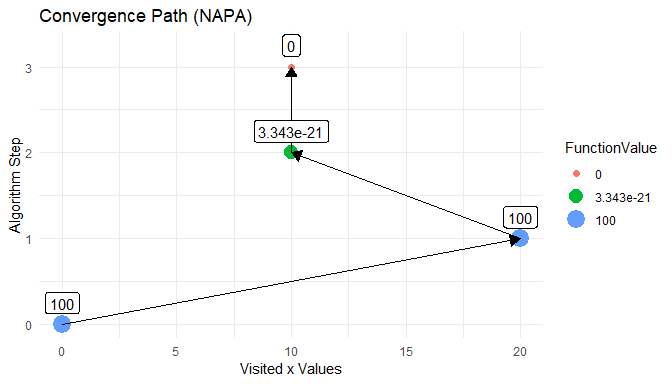
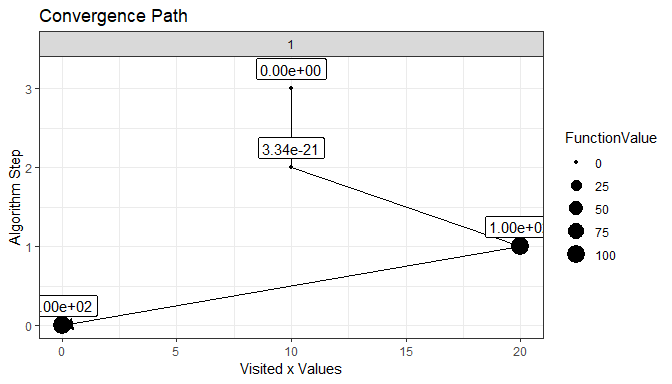
- minor readme update

diff --git a/README.html b/README.html
@@ -249,43 +249,15 @@ optim_DFP_NAPA(starts=0, func=quadratic_NAPA, center=10)</code></pre>
 op &lt;- optim_DFP_NAPA(starts=0, func=quadratic_NAPA, center=10, keepValues = TRUE)
 
 # convergence path plot:
-xv &lt;- as.numeric(op$x)
-fv &lt;- as.numeric(op$f)
-
-dat &lt;- data.frame(xv=rev(xv), FunctionValue=factor(signif(rev(fv),4)), steps=0:op$steps)
-
-s &lt;- seq(length(xv)-1)
-dat_arrows &lt;- data.frame(x0 = rev(xv)[s+1], y0 = dat$steps[s+1], x1 = rev(xv)[s], y1 = dat$steps[s])
-
-ggplot(data=dat) + 
-  geom_point(aes(x=xv, y=steps, colour=FunctionValue, size=FunctionValue)) +
-  geom_segment(data=dat_arrows, aes(x=x1, y=y1, xend=x0, yend=y0), 
-               arrow = arrow(length=unit(0.30,&quot;cm&quot;), ends=&quot;last&quot;, type = &quot;closed&quot;)) +
-  geom_label(aes(label=FunctionValue, x=xv, y=steps+0.25)) +
-    xlab(&quot;Visited x Values&quot;) + ylab(&quot;Algorithm Step&quot;) +
-    ggtitle(&quot;Convergence Path (NAPA)&quot;) + theme_minimal()</code></pre>
[1 lines of base64/hex data omitted]
+plotConvergence(op) + ggtitle(&quot;Convergence Path&quot;)</code></pre>
[1 lines of base64/hex data omitted]
 <p>And the same for the APA version:</p>
 <pre class="r"><code># just set keepValues to TRUE to keep every visited value
 op &lt;- optim_DFP_APA(starts=0, func=quadratic, center=10, keepValues = TRUE)
 
 # convergence path plot:
-xv &lt;- sapply(X = op$x, FUN = format, digits=5)
-fv &lt;- sapply(X = op$f, FUN = format, digits=5)
-
-dat &lt;- data.frame(xv=rev(xv), FunctionValue=factor(rev(fv), levels=unique(fv)), steps=0:op$steps)
-
-s &lt;- seq(length(xv)-1)
-dat_arrows &lt;- data.frame(x0 = rev(xv)[s+1], y0 = dat$steps[s+1], x1 = rev(xv)[s], y1 = dat$steps[s])
-
-ggplot(data=dat) + 
-  geom_point(aes(x=xv, y=steps, colour=FunctionValue, size=FunctionValue)) +
-  geom_segment(data=dat_arrows, aes(x=x1, y=y1, xend=x0, yend=y0), 
-               arrow = arrow(length=unit(0.30,&quot;cm&quot;), ends=&quot;last&quot;, type = &quot;closed&quot;)) +
-  geom_label(aes(label=FunctionValue, x=xv, y=steps+0.25)) +
-    xlab(&quot;Visited x Values&quot;) + ylab(&quot;Algorithm Step&quot;) +
-    ggtitle(&quot;Convergence Path (APA)&quot;) + theme_minimal()</code></pre>
[1 lines of base64/hex data omitted]
+plotConvergence(op)</code></pre>
[1 lines of base64/hex data omitted]
 </div>
 </div>
 

diff --git a/README.md b/README.md
@@ -153,21 +153,7 @@ library(ggplot2) # ggplot for plotting
 op <- optim_DFP_NAPA(starts=0, func=quadratic_NAPA, center=10, keepValues = TRUE)
 
 # convergence path plot:
-xv <- as.numeric(op$x)
-fv <- as.numeric(op$f)
-
-dat <- data.frame(xv=rev(xv), FunctionValue=factor(signif(rev(fv),4)), steps=0:op$steps)
-
-s <- seq(length(xv)-1)
-dat_arrows <- data.frame(x0 = rev(xv)[s+1], y0 = dat$steps[s+1], x1 = rev(xv)[s], y1 = dat$steps[s])
-
-ggplot(data=dat) + 
-  geom_point(aes(x=xv, y=steps, colour=FunctionValue, size=FunctionValue)) +
-  geom_segment(data=dat_arrows, aes(x=x1, y=y1, xend=x0, yend=y0), 
-               arrow = arrow(length=unit(0.30,"cm"), ends="last", type = "closed")) +
-  geom_label(aes(label=FunctionValue, x=xv, y=steps+0.25)) +
-    xlab("Visited x Values") + ylab("Algorithm Step") +
-    ggtitle("Convergence Path (NAPA)") + theme_minimal()
+plotConvergence(op) + ggtitle("Convergence Path")
 ```
 
 ![](README_files/figure-html/unnamed-chunk-4-1.png)<!-- -->
@@ -180,21 +166,7 @@ And the same for the APA version:
 op <- optim_DFP_APA(starts=0, func=quadratic, center=10, keepValues = TRUE)
 
 # convergence path plot:
-xv <- sapply(X = op$x, FUN = format, digits=5)
-fv <- sapply(X = op$f, FUN = format, digits=5)
-
-dat <- data.frame(xv=rev(xv), FunctionValue=factor(rev(fv), levels=unique(fv)), steps=0:op$steps)
-
-s <- seq(length(xv)-1)
-dat_arrows <- data.frame(x0 = rev(xv)[s+1], y0 = dat$steps[s+1], x1 = rev(xv)[s], y1 = dat$steps[s])
-
-ggplot(data=dat) + 
-  geom_point(aes(x=xv, y=steps, colour=FunctionValue, size=FunctionValue)) +
-  geom_segment(data=dat_arrows, aes(x=x1, y=y1, xend=x0, yend=y0), 
-               arrow = arrow(length=unit(0.30,"cm"), ends="last", type = "closed")) +
-  geom_label(aes(label=FunctionValue, x=xv, y=steps+0.25)) +
-    xlab("Visited x Values") + ylab("Algorithm Step") +
-    ggtitle("Convergence Path (APA)") + theme_minimal()
+plotConvergence(op)
 ```
 
 ![](README_files/figure-html/unnamed-chunk-5-1.png)<!-- -->
